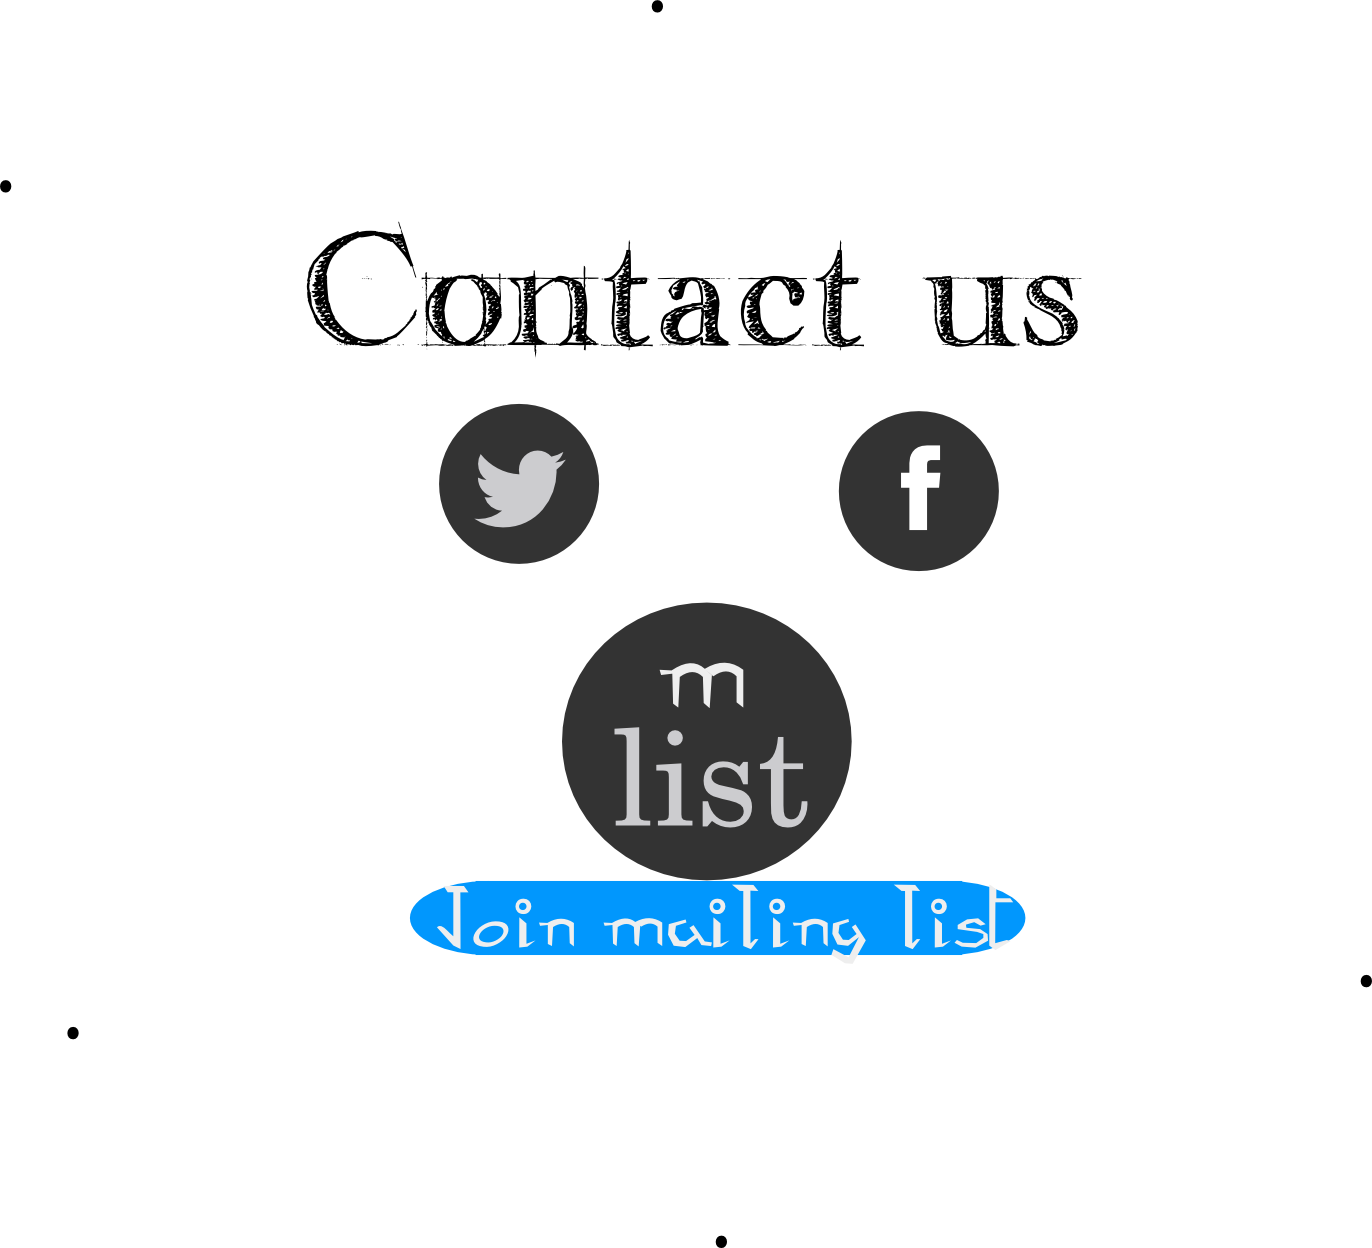
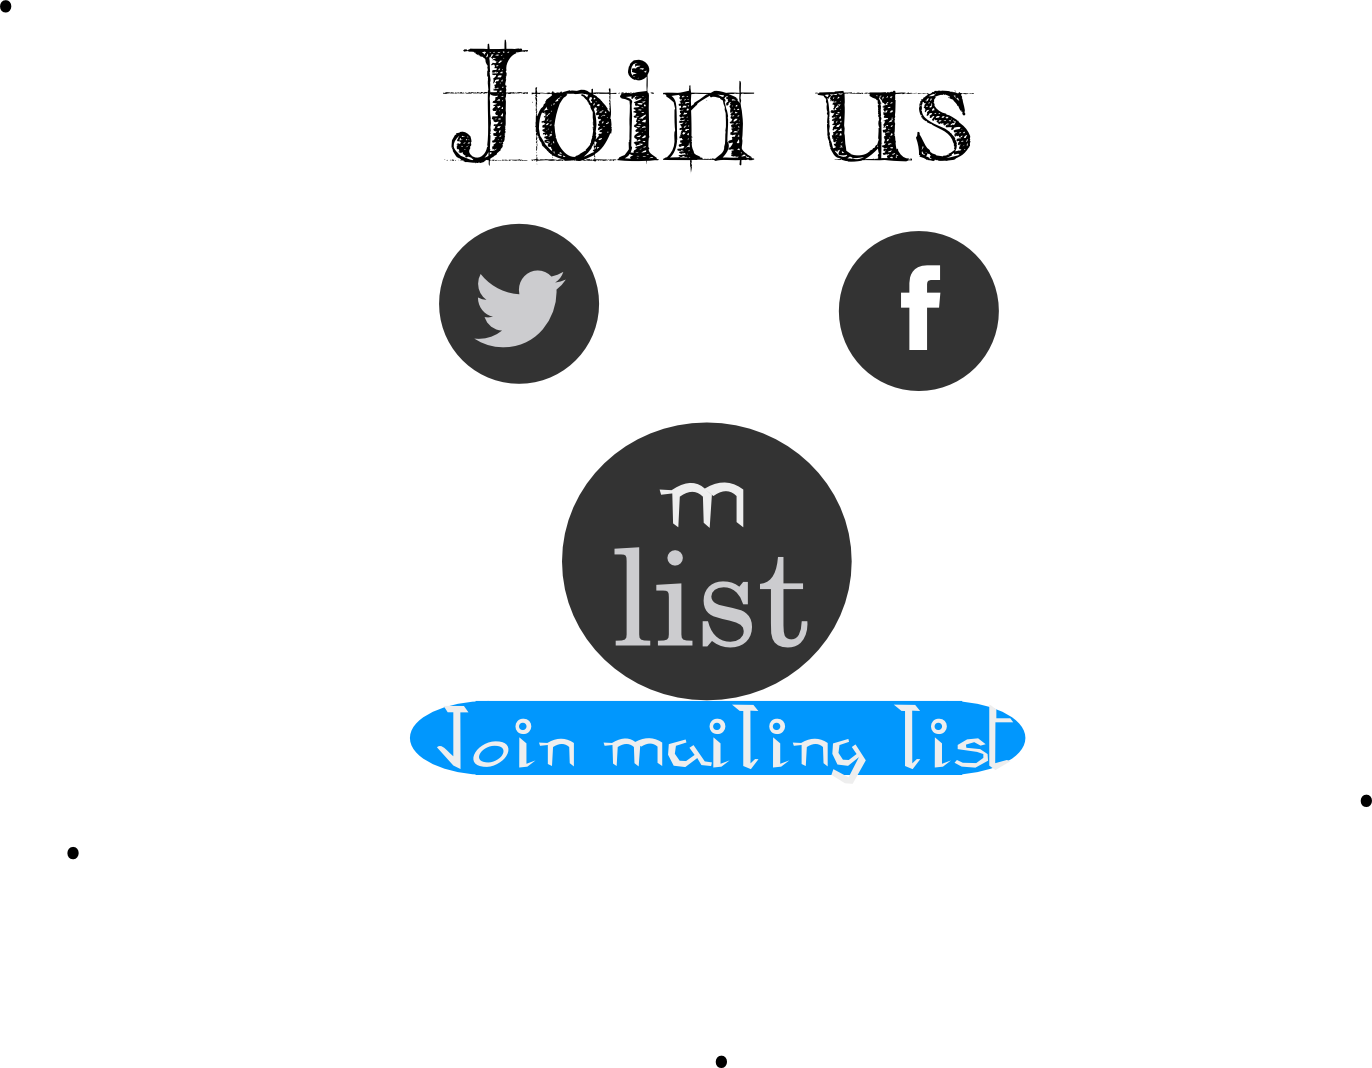
Initial commit

diff --git a/index.html b/index.html
@@ -45,13 +45,16 @@
             <div class="collapse navbar-collapse" id="bs-example-navbar-collapse-1">
                 <ul class="nav navbar-nav">
                     <li>
-                        <a href="#about">About</a>
+                        <a href="#about">About(आमच्या बद्दल = हि भानगड काय आहॆ)</a>
                     </li>
                     <li>
-                        <a href="#Projects">Projects</a>
+                        <a href="#Projects">Projects(प्रकल्प = आम्ही ठरवलॆली/करत आसलॆल्या काडया)</a>
                     </li>
                     <li>
-                        <a href="#contact">Contact</a>
+                        <a href="#join">Join us(सम्पर्क करा)</a>
+                    </li>
+			<li>
+                        <a href="#location">location/(पत्ता/नकाशा)</a>
                     </li>
                 </ul>
             </div>
@@ -101,10 +104,10 @@
         <hr class="featurette-divider">
 
         <!-- Third Featurette -->
-        <div class="featurette" id="contact">
+        <div class="featurette" id="join">
             <img class="featurette-image img-circle img-responsive pull-right" src="contact.png">
             <h2 class="featurette-heading">Join us
-                <span class="text-muted">Join us.</span>
+                <span class="text-muted">या तुम्ही पण या.</span>
             </h2>
             <p class="lead">for mailing list visit<a href=" http://www.freelists.org/list/aapalihackerspace"> http://www.freelists.org/list/aapalihackerspace</a>.</p>
 
@@ -115,6 +118,22 @@
 </div>
 
         <hr class="featurette-divider">
+<!-- Forth Featurette -->
+        <div class="featurette" id="location">
+            <img class="featurette-image img-circle img-responsive pull-left" src="loc.png">
+            <h2 class="featurette-heading">Location/map
+                <span class="text-muted">नक्की कुठॆ आहॆ हि जागा?.</span>
+            </h2>
+            <p class="lead">Now we are in Bhosari and works from castalia Research labs.</p>
+            <p class="lead">सद्या आम्ही भॊसरीत आहॊत आणी castalia Research labs मधुन कामॆ बघतॊ.आमचा पत्ता आहॆ.</p>
+             <p class="lead">F - 42, Plot No - 134, 135, VIP Complex, Visweswarayya Chowk, Sector 7, Bhosari MIDC, Pune, India - 411026</p>
+
+        </div>
+<div style="float: right;"><iframe style="border: 0; float: right;" src="https://www.google.com/maps/embed?pb=!1m16!1m12!1m3!1d21387.511390668617!2d73.82488610801063!3d18.627452644643245!2m3!1f0!2f0!3f0!3m2!1i1024!2i768!4f13.1!2m1!1sGeneral+Block%2C+MIDC-Bhosari+Pune%2C!5e0!3m2!1sen!2sin!4v1462355060055" width="700" height="500" frameborder="0" allowfullscreen="allowfullscreen"></iframe></div>
+	</div>
+
+        <hr class="featurette-divider">
+
 
         <!-- Footer -->
         <footer>
